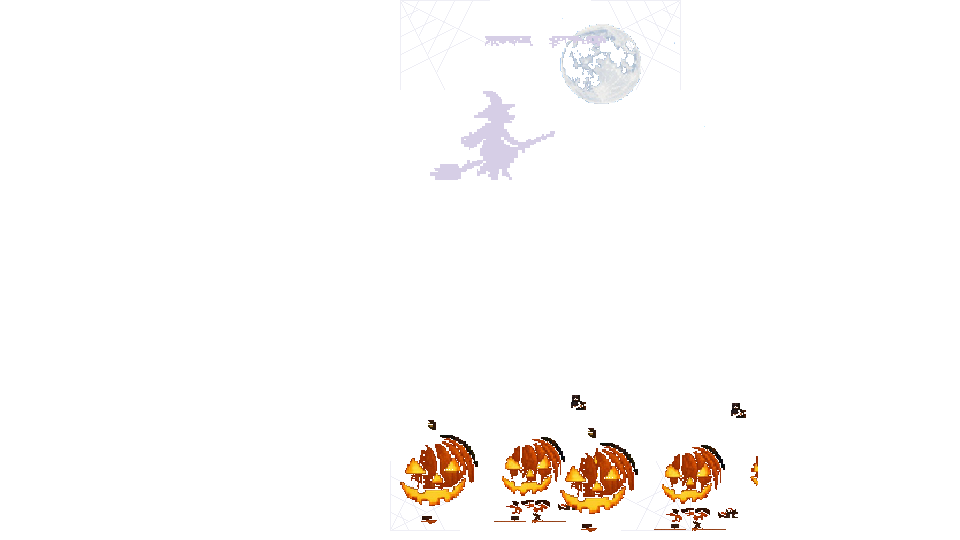
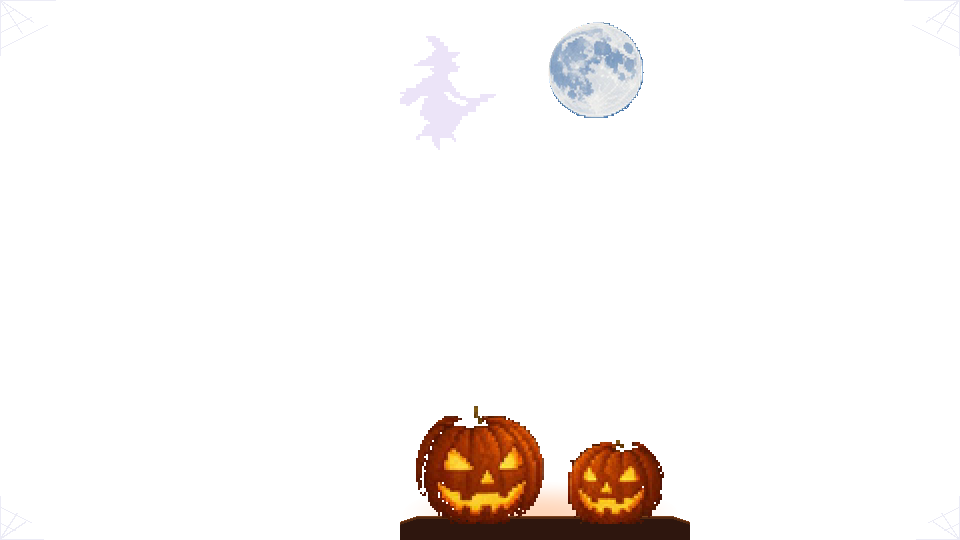
Recorta árvore, lua, bruxa e abóboras sem a caixa nem o entulho.

diff --git a/index.html b/index.html
@@ -22,7 +22,7 @@
     })().catch((error) => console.warn('Cache cleanup failed:', error));
   </script>
   <link rel="icon" type="image/png" href="assets/share/favicon.png" />
-  <link rel="stylesheet" href="css/style.css?v=v41-eventos" />
+  <link rel="stylesheet" href="css/style.css?v=v42-eventos" />
   <link rel="stylesheet" href="css/account.css?v=v37-henrico" />
   <link rel="stylesheet" href="css/mobile.css?v=v37-henrico" />
 </head>
@@ -75,11 +75,10 @@
 
     <section class="screen" id="scr-menu" data-screen="menu">
       <div class="menu-bg"></div>
-      <img class="menu-skin" id="skin-natal" alt="" src="assets/ui/skin-natal.png?v=v41-eventos" />
-      <img class="menu-skin" id="skin-halloween" alt="" src="assets/ui/skin-halloween.png?v=v41-eventos" />
+      <img class="menu-skin" id="skin-natal" alt="" src="assets/ui/skin-natal.png?v=v42-eventos" />
+      <img class="menu-skin" id="skin-halloween" alt="" src="assets/ui/skin-halloween.png?v=v42-eventos" />
       <div class="menu-fx" id="fx-natal"></div>
       <div class="menu-fx" id="fx-halloween"></div>
-      <div class="menu-glow" id="glow-halloween"></div>
       <img class="logo small" src="assets/ui/logo.png" alt="DS Fighters" />
       <button class="nav btn mobile-only" id="btn-mobile-account">CONTA / SALVAR PROGRESSO</button>
       <nav class="main-menu" aria-label="Menu principal">
@@ -473,10 +472,10 @@
   <script src="js/data/fighters-pack.js?v=v37-henrico"></script>
   <script src="js/data/fighters-henrico.js?v=v37-henrico"></script>
   <script src="js/data/pets.js?v=v37-henrico"></script>
-  <script src="js/data/stages.js?v=v41-eventos"></script>
+  <script src="js/data/stages.js?v=v42-eventos"></script>
   <script src="js/data/stages-v21.js?v=v37-round3"></script>
-  <script src="js/data/events.js?v=v41-eventos"></script>
-  <script src="js/data/stages-events.js?v=v41-eventos"></script>
+  <script src="js/data/events.js?v=v42-eventos"></script>
+  <script src="js/data/stages-events.js?v=v42-eventos"></script>
   <script src="js/engine/sprites.js?v=v37-henrico"></script>
   <script src="js/engine/fx.js?v=v37-firefly"></script>
   <script src="js/data/voice-book.js?v=v37-henrico"></script>
@@ -486,7 +485,7 @@
   <script src="js/engine/projectile.js?v=v37-henrico"></script>
   <script src="js/engine/fighter.js?v=v37-round3"></script>
   <script src="js/engine/vfx.js?v=v38-vfx"></script>
-  <script src="js/engine/weather.js?v=v41-eventos"></script>
+  <script src="js/engine/weather.js?v=v42-eventos"></script>
   <script src="js/engine/mechanics.js?v=v37-round3"></script>
   <script src="js/engine/stage.js?v=v37-firefly"></script>
   <script src="js/engine/ai.js?v=v37-henrico"></script>
@@ -496,7 +495,7 @@
   <script src="js/net/online.js?v=v37-henrico"></script>
   <script src="js/ui/hud.js?v=v37-heat"></script>
   <script src="js/data/roster-portraits.js?v=v37-henrico"></script>
-  <script src="js/ui/ui.js?v=v41-eventos"></script>
+  <script src="js/ui/ui.js?v=v42-eventos"></script>
   <script src="js/ui/account.js?v=v37-henrico"></script>
   <script src="js/main.js?v=v37-henrico"></script>
   <script src="js/net/tournament.js?v=v37-henrico"></script>

diff --git a/css/style.css b/css/style.css
@@ -590,9 +590,6 @@ body[data-event="halloween"] #scr-menu .logo.small { filter: drop-shadow(0 4px 0
 body[data-event="natal"] #scr-menu .mm,
 body[data-event="natal"] #scr-menu .stats-card { box-shadow: 0 -3px 0 #f4fbff; }
 body[data-event="halloween"] #scr-menu .mm { box-shadow: -3px 0 0 #ff8a2a, 0 -3px 0 #c45cff; }
-.menu-glow { position: absolute; pointer-events: none; z-index: 1; display: none; }
-#glow-halloween { left: 400px; top: 8px; width: 280px; height: 160px; background: radial-gradient(ellipse at 30% 55%, rgba(255,140,40,.75), rgba(150,40,200,.4) 48%, transparent 74%); }
-body[data-event="halloween"] #glow-halloween { display: block; }
 #fx-natal, #fx-halloween { clip-path: inset(0 270px 0 380px); }
 #fx-natal { background: url('../assets/ui/fx-snow.png') 0 0 / 960px 540px repeat-y; animation: eventFall 7s linear infinite; }
 #fx-halloween { background: url('../assets/ui/fx-bats.png') 0 0 / 960px 540px repeat-y; animation: eventFall 9s linear infinite; }
